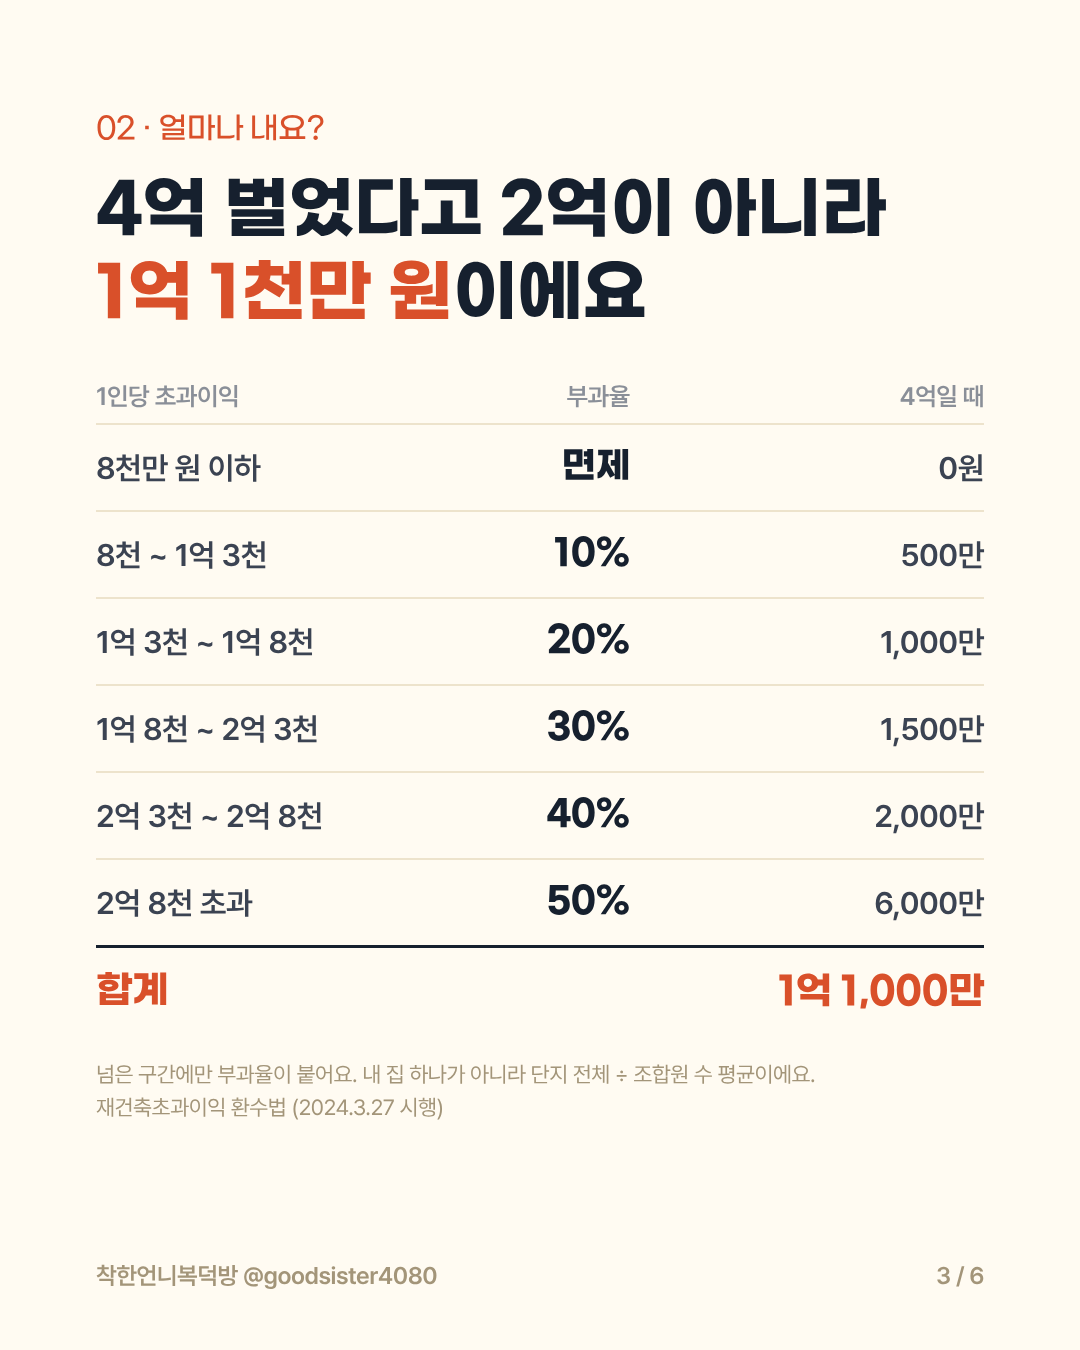
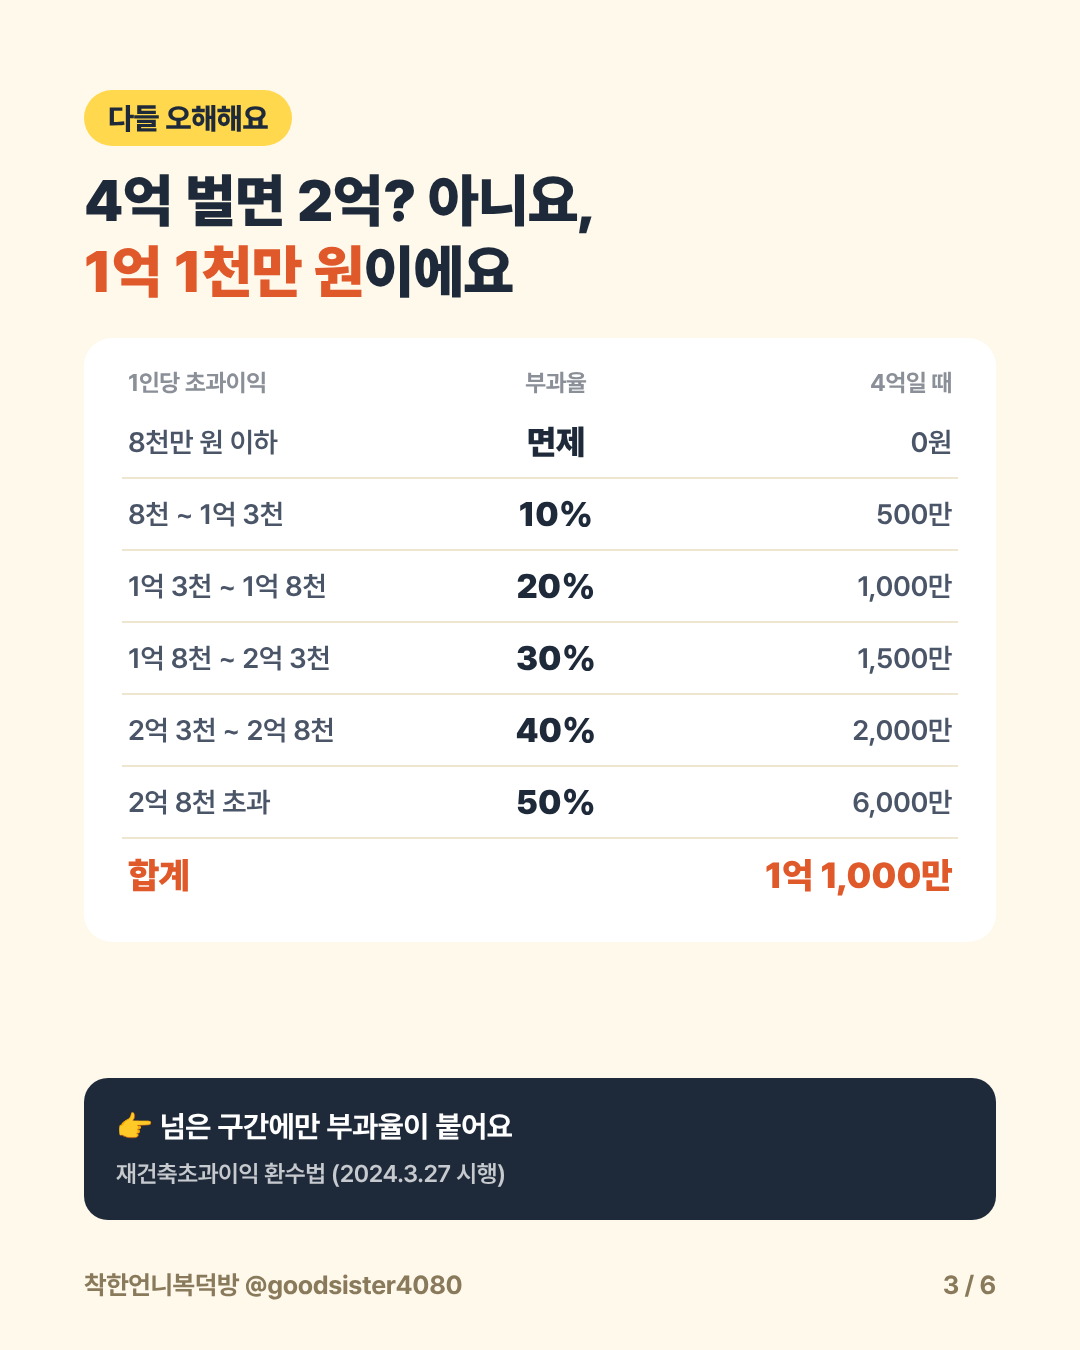
Restyle 재초환 cards to match the 11/4 balance-day card layout
Claude-Session: https://claude.ai/code/session_01TVq9M4GpnT2XRseWGn9WC1

diff --git a/index.html b/index.html
@@ -105,7 +105,7 @@ footer{margin-top:48px;color:var(--tx3);font-size:12px}
   <div class="cards">
     <div class="card"><h3>🏗 카드뉴스 · 재초환 · <code>재건축</code> · 승인 대기</h3>
       <p><b>집을 안 팔아도 나오는 돈, 재초환 (6장)</b></p>
-      <p><img src="instagram/cards/2026-11-15-jaechohwan/card-1115-1.png" style="width:100%;border-radius:10px;margin-top:8px"></p>
+      <p><img src="instagram/cards/2026-11-15-jaechohwan/card-1115-1.png?v=2" style="width:100%;border-radius:10px;margin-top:8px"></p>
       <p style="margin-top:6px"><a href="instagram/cards/kit.html"><b>업로드 키트</b></a> · <a href="https://www.notion.so/416f7921674681df9d3fc085f8da0261">노션 자료</a></p></div>
     <div class="card"><h3>🎬 11/17(화) 릴스 · <code>갈아타기</code> · 대본 완료</h3>
       <p><b>같은 단지, 한 집만 안 팔리는 이유 (집 파는 하수 vs 고수)</b></p>

diff --git a/instagram/cards/2026-11-15-jaechohwan/README.md b/instagram/cards/2026-11-15-jaechohwan/README.md
@@ -3,6 +3,7 @@
 **업로드**: 승인 대기 · 6장 · 댓글 키워드 `재건축`
 **보상**: 노션 「재초환 숫자로 이해하기 + 재건축 내 돈 계산표」 https://www.notion.so/416f7921674681df9d3fc085f8da0261
 **표지 사진**: 대표님 현장 사진 (번호판은 잘라냈고, 동 표기는 블러 처리)
+**디자인**: 11/4 잔금 카드 스타일 (반응 좋았던 형식)
 
 ## 캡션
 ```
